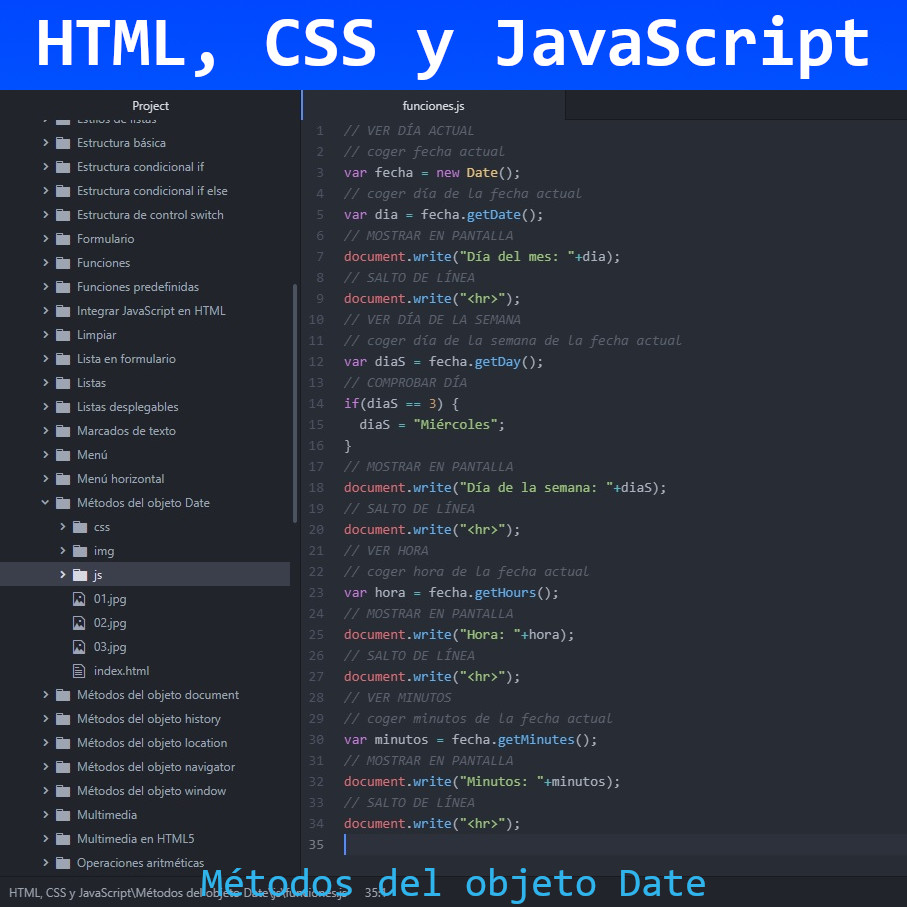
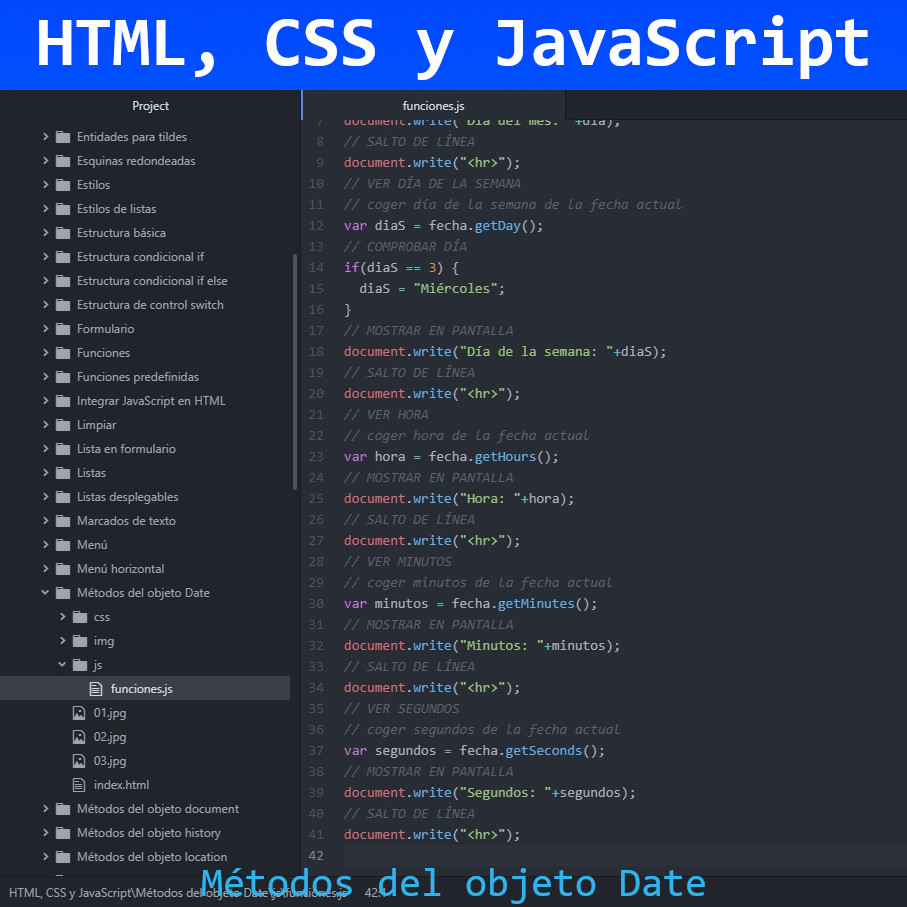
Métodos del objeto Date
Métodos del objeto Date en JavaScript

diff --git a/HTML, CSS y JavaScript/Métodos del objeto Date/js/funciones.js b/HTML, CSS y JavaScript/Métodos del objeto Date/js/funciones.js
@@ -32,3 +32,10 @@ var minutos = fecha.getMinutes();
 document.write("Minutos: "+minutos);
 // SALTO DE LÍNEA
 document.write("<hr>");
+// VER SEGUNDOS
+// coger segundos de la fecha actual
+var segundos = fecha.getSeconds();
+// MOSTRAR EN PANTALLA
+document.write("Segundos: "+segundos);
+// SALTO DE LÍNEA
+document.write("<hr>");
